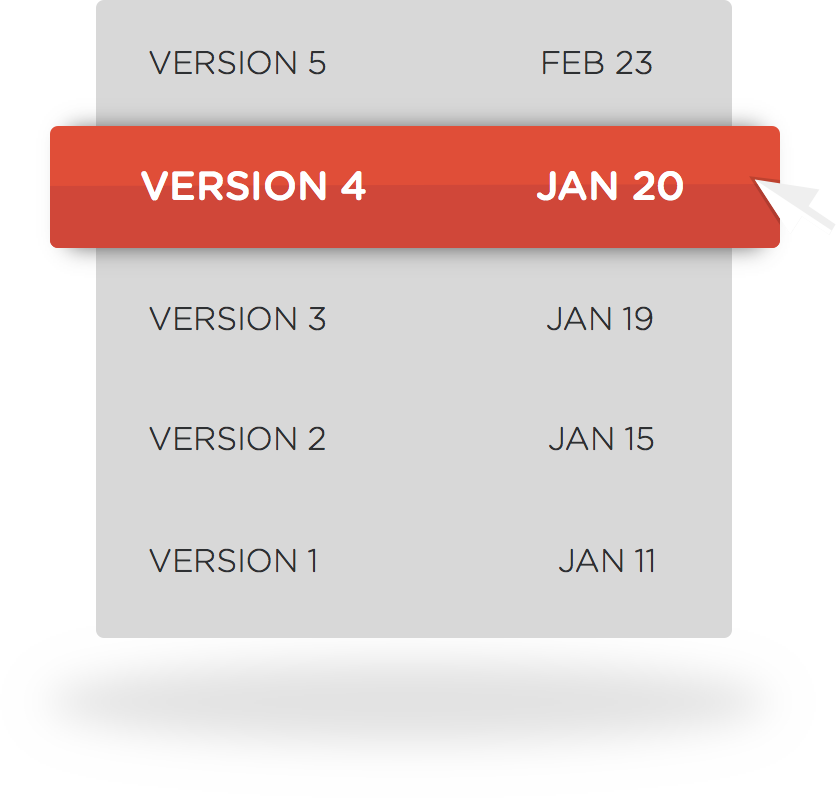
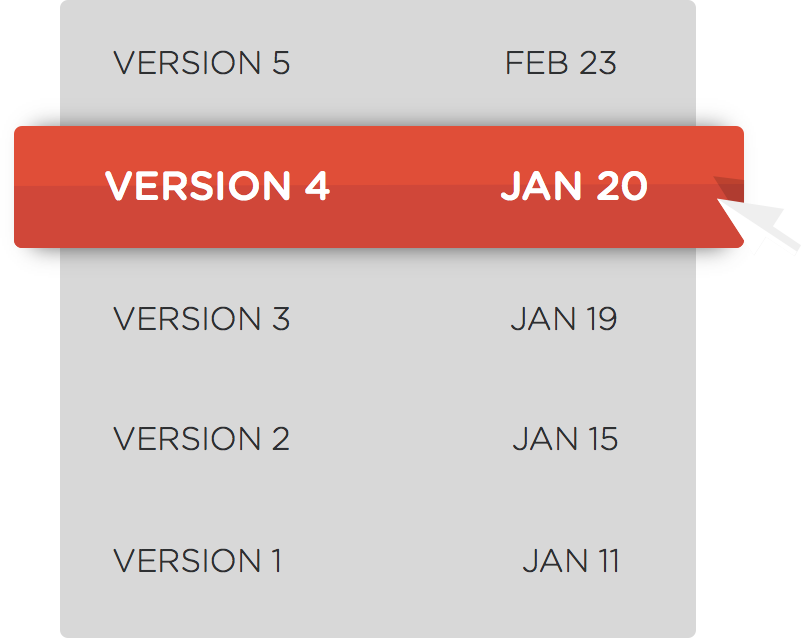
Use shadow instead of in the image

diff --git a/app/index.html b/app/index.html
@@ -120,7 +120,9 @@
 				<h3>Security</h3>
 				<p>We're committed to keeping your data safe. Store them in the cloud instead of code. Seamless encryption before storing and decryption after retrieving. Nobody except you can read them.</p>
 			</div>
-			<div class="illustration"></div>
+			<div class="illustration">
+				<div></div>
+			</div>
 		</div>
 		<div class="cleared"></div>
 		<div id="feature-2" class="even">
@@ -128,7 +130,9 @@
 				<h3>Versioning</h3>
 				<p>We store the last 10 versions of your software credentials. If you made a mistake, it is just one click away to go back to your previous working credentials.</p>
 			</div>
-			<div class="illustration"></div>
+			<div class="illustration">
+				<div></div>
+			</div>
 		</div>
 		<div class="cleared"></div>
 		<div id="feature-3" class="odd">
@@ -136,7 +140,9 @@
 				<h3>Access Control</h3>
 				<p>Fine-grained access-control. We let you have unlimited teams with unlimited users. Completely control who has access to what.</p>
 			</div>
-			<div class="illustration"></div>
+			<div class="illustration">
+				<div></div>
+			</div>
 		</div>
 		<div class="cleared"></div>
 		<div id="feature-4" class="even">
@@ -144,7 +150,9 @@
 				<h3>Flexibility</h3>
 				<p>Need to migrate hosting platforms? Need to change your service providers? We make it fast and easy, eliminating any migration headaches.</p>
 			</div>
-			<div class="illustration"></div>
+			<div class="illustration">
+				<div></div>
+			</div>
 		</div>
 		<div class="cleared"></div>
 		<div id="feature-5" class="odd">
@@ -152,7 +160,9 @@
 				<h3>Simplicity</h3>
 				<p>Everything is in one place. Access it quickly, easily, and safely.</p>
 			</div>
-			<div class="illustration"></div>
+			<div class="illustration">
+				<div></div>
+			</div>
 		</div>
 		<div class="cleared"></div>
 	</div>

diff --git a/app/styles/landing.less b/app/styles/landing.less
@@ -93,7 +93,7 @@ body.landing {
 			margin: auto;
 
 			&.cleared {
-				margin-bottom: 150px;
+				margin-bottom: 200px;
 
 				&:last-child {
 					margin-bottom: 0;
@@ -138,32 +138,54 @@ body.landing {
 			.illustration {
 				width: 400px;
 				background-repeat: no-repeat;
+
+				div {
+					background-image: url("@{images}/trial_shadow.svg");
+					background-size: 360px 40px;
+					background-position: bottom center;
+					background-repeat: no-repeat;
+					height: 100%;
+					width: 100%;
+				}
 			}
 		}
 
 		#feature-1 .illustration {
 			background-image: url("@{images}/security.png");
-			background-size: 327px 200px;
-			height: 200px;
-			margin-right: 50px;
-		}
+			background-size: 350px 132px;
+			height: 132px;
+			margin-right: 25px;
 
-		#feature-1 + .cleared {
-			margin-bottom: 200px;
+			div {
+				margin-top: 75px;
+				margin-left: -10px;
+			}
 		}
 
 		#feature-2 .illustration {
 			background-image: url("@{images}/versioning.png");
-			background-size: 315px 300px;
-			height: 300px;
+			background-size: 314px 250px;
+			height: 250px;
 			margin-top: -25px;
+			margin-left: 25px;
+
+			div {
+				margin-top: 70px;
+				margin-left: -50px;
+			}
 		}
 
 		#feature-3 .illustration {
 			background-image: url("@{images}/access_control.png");
-			background-size: 325px 300px;
-			height: 300px;
+			background-size: 214px 250px;
+			height: 250px;
 			margin-top: -50px;
+			margin-right: 50px;
+
+			div {
+				margin-top: 60px;
+				margin-left: 90px;
+			}
 		}
 	}
 
